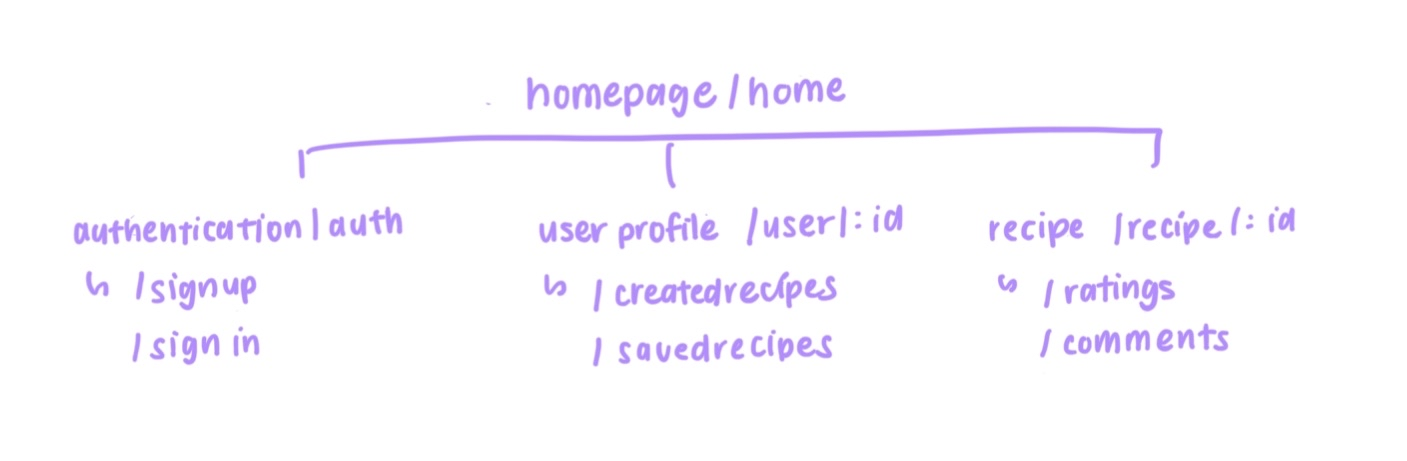
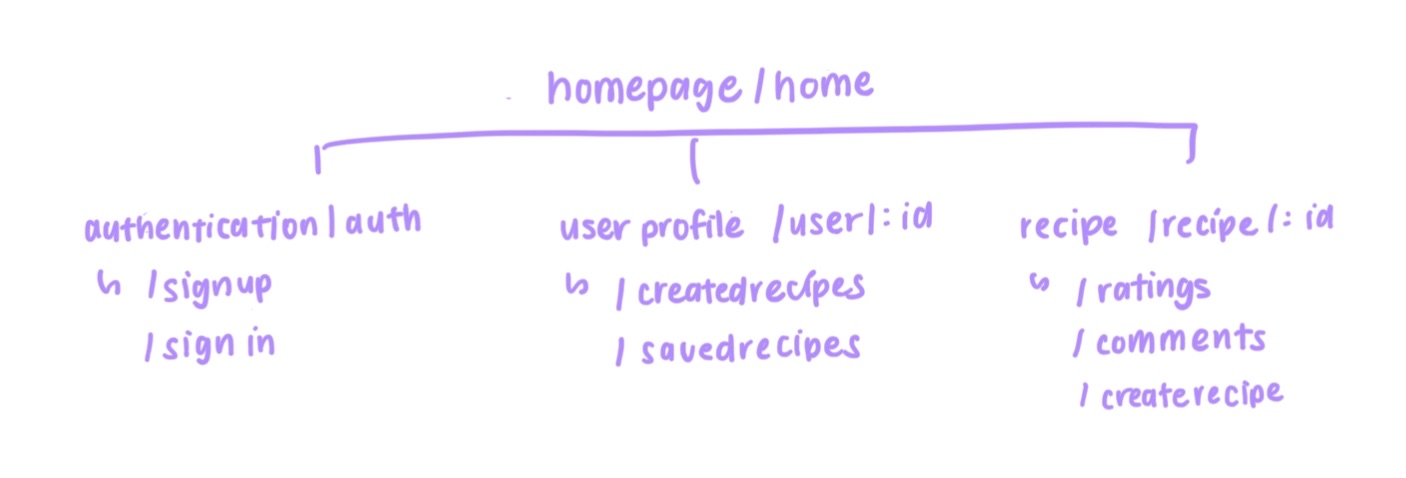
Update README with create recipe mockup

diff --git a/README.md b/README.md
@@ -51,6 +51,11 @@ Before development, I created rough UI mockups using screenshots and annotations
 <h4>Comments Section (Recipe Page)</h4>
 <img src="public/mockups/comments-section.png" alt="Comments section" width="60%" />
 
+<h4>Upload New Recipe (Recipe Page)</h4>
+<img src="public/mockups/create-recipe.png" alt="Upload new recipe" width="60%" />
+
+
+
 
 
 *Note: UI sketch was inspired by Youtube's layout
